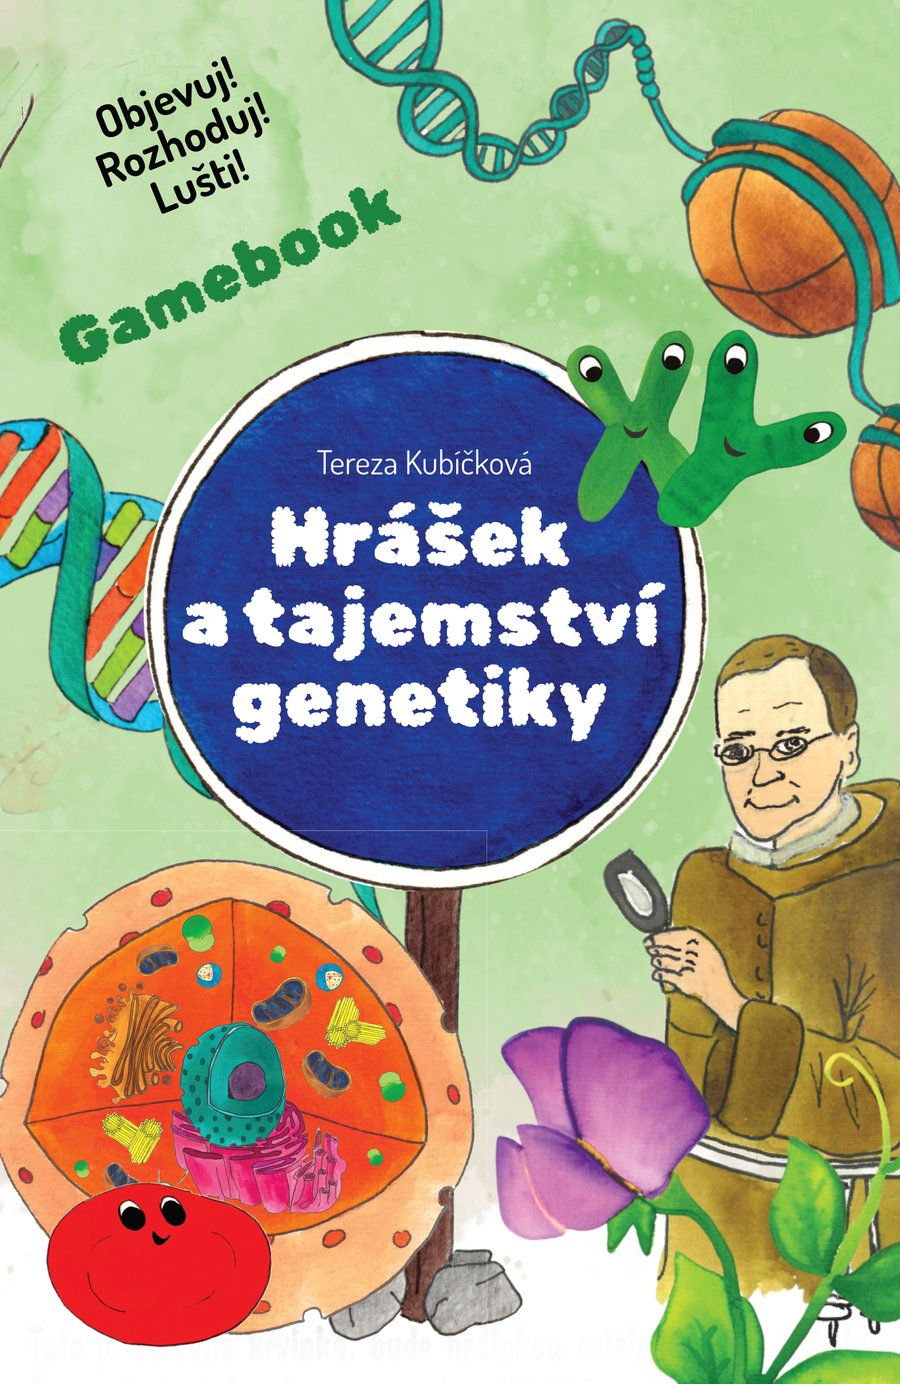
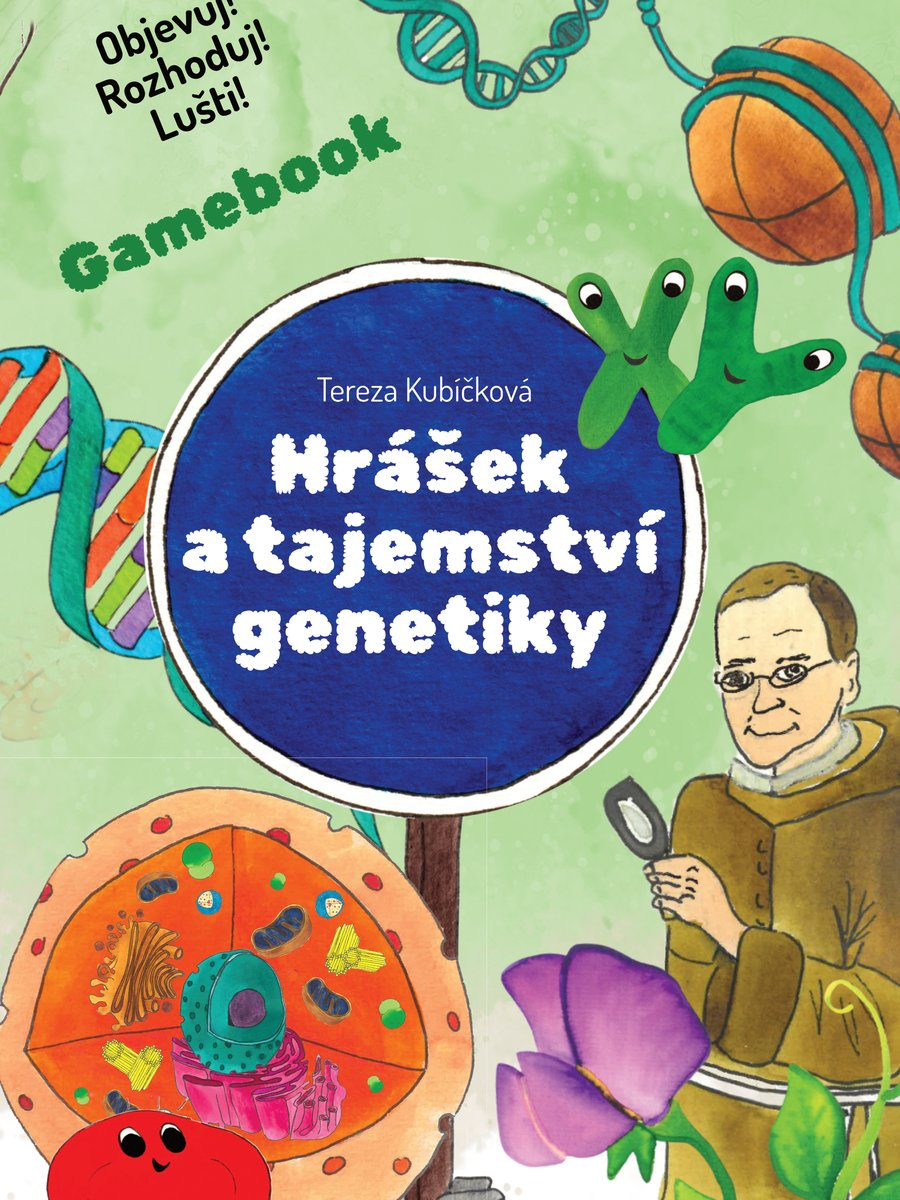
Homepage: obálka Genetiky oříznuta na 3:4, stejná velikost jako první kniha

diff --git a/index.html b/index.html
@@ -727,7 +727,7 @@
                             <a href="#">
                                 <!-- Image -->
                                 <figure>
-                                    <img src="assets/img/journal/gamebook-hrasek-genetika-obalka.jpg" alt="Dobrodružství červené krvinky: Hrášek a tajemství genetiky" class="img-responsive" style="object-fit: contain;">
+                                    <img src="assets/img/journal/gamebook-hrasek-genetika-obalka.jpg?v=2" alt="Dobrodružství červené krvinky: Hrášek a tajemství genetiky" class="img-responsive" style="object-fit: contain;">
                                 </figure>
                                 <div class="ws-works-caption text-center">
                                     <!-- Item Category -->
